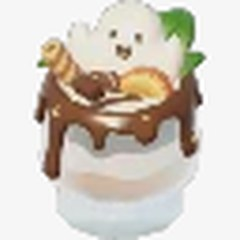
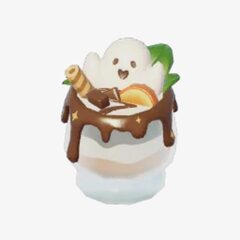
包帯ドリンク系3種のサムネイル画像を追加、かぼちゃ料理4種のサムネイルも再生成
一覧カードはthumbSrc()で images/thumb/foods/*.jpg を参照するが、
白い包帯ドリンク・黒い包帯ドリンク・ミイラ猫ドリンク追加時にサムネイル
生成を失念しており、カード画像が表示されていなかった。該当3枚を追加。
また直前のかぼちゃ料理4種の本画像差し替え時にもサムネイル再生成を
忘れており、古い画像のままだったため、合わせて最新画像から再生成した。

Claude-Session: https://claude.ai/code/session_01K3eMRAeT6oYS9BRu22swvm

diff --git a/service-worker.js b/service-worker.js
@@ -1,5 +1,5 @@
 // キャッシュ名（更新時はバージョンを上げる）
-const CACHE_NAME = "hatopi-v2.543.0";
+const CACHE_NAME = "hatopi-v2.544.0";
 
 // キャッシュするファイル一覧
 const CACHE_FILES = [
